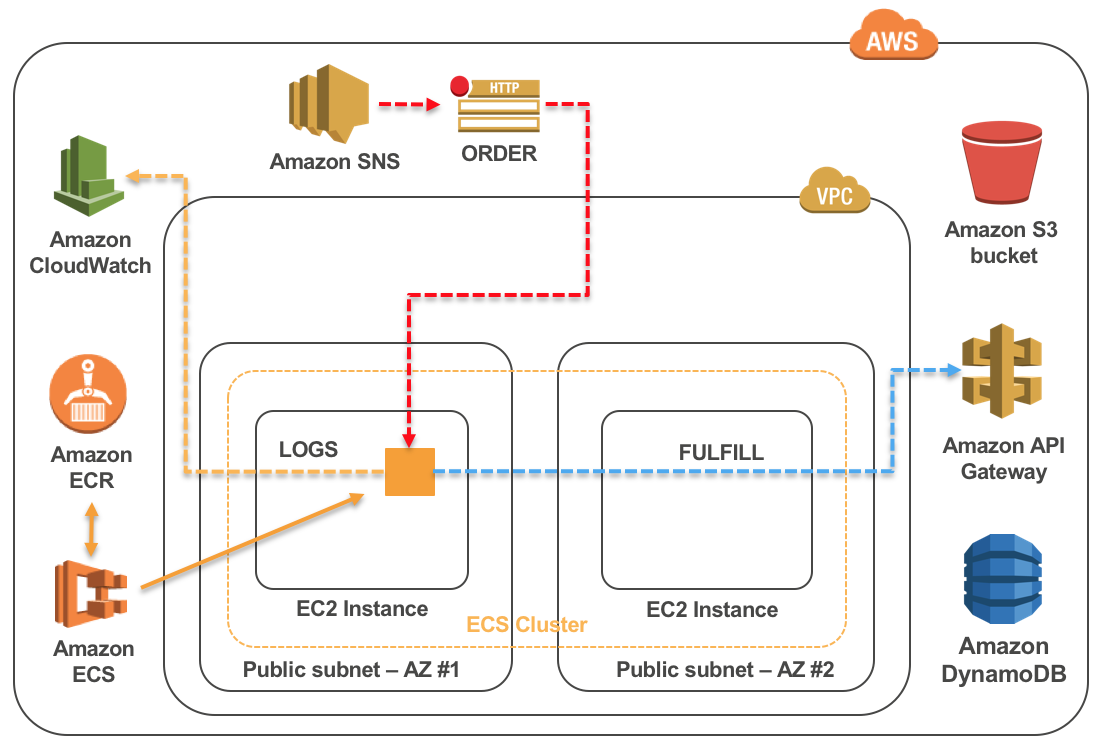
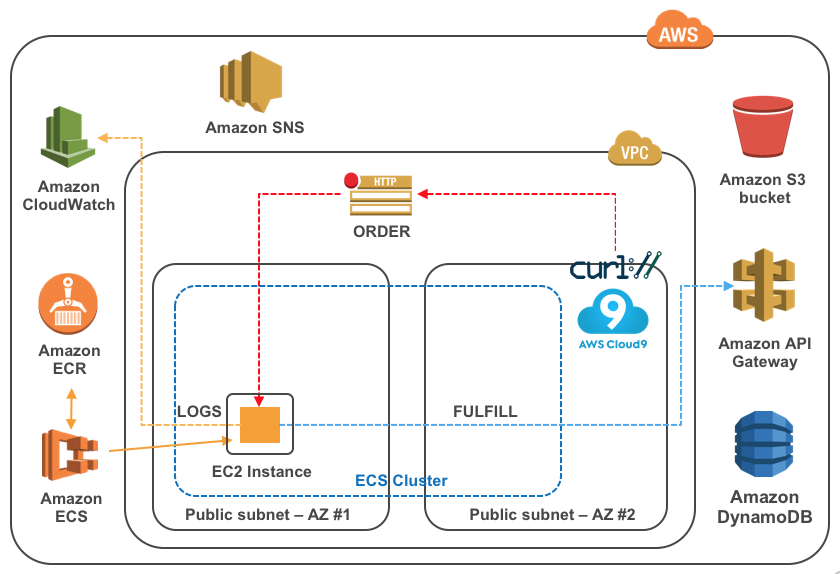
content edits for lab 2

diff --git a/workshop-microservices/readme.md b/workshop-microservices/readme.md
@@ -8,10 +8,10 @@ Interstella is an trading company specializing in inter-system exchange of rare 
 
 But our logistics platform wasn't built to handle this load and we're at risk of losing our trade routes. Our engineers have suggested we look at using modern application architectures, containers, and devops, but they don't know anything about implementing them. Can you help us update our logistics platform and become the largest trading consortium in the galaxy?
 
-### Requirements:  
+### Requirements:
 
 * AWS account - if you don't have one, it's easy and free to [create one](https://aws.amazon.com/).
-* AWS IAM account with elevated privileges allowing you to interact with CloudFormation, IAM, EC2, ECS, ECR, ELB/ALB, VPC, SNS, CloudWatch. [Learn how](https://docs.aws.amazon.com/IAM/latest/UserGuide/id_users_create.html).
+* AWS IAM account with elevated privileges allowing you to interact with CloudFormation, IAM, EC2, ECS, ECR, ELB/ALB, VPC, SNS, CloudWatch, Cloud9. [Learn how](https://docs.aws.amazon.com/IAM/latest/UserGuide/id_users_create.html).
 * A workstation or laptop with an ssh client installed, such as [putty](http://www.putty.org/) on Windows; or terminal or iterm on Mac
 * Familiarity with [Python](https://wiki.python.org/moin/BeginnersGuide/Programmers), [vim](https://www.vim.org/about.php)/[emacs](https://www.gnu.org/software/emacs/)/[nano](https://www.nano-editor.org/), [Docker](https://www.docker.com/), and [AWS](httpts://aws.amazon.com) - *not required but a bonus*.
 
@@ -57,9 +57,9 @@ You will be deploying infrastructure on AWS which will have an associated cost. 
 
 ### Workshop Setup:
 
-1\. Log into the AWS Management Console and select an [AWS region](http://docs.aws.amazon.com/AWSEC2/latest/UserGuide/using-regions-availability-zones.html).  
+1\. Log into the AWS Management Console and select **US East (N.Virginia)** for your [AWS region](http://docs.aws.amazon.com/AWSEC2/latest/UserGuide/using-regions-availability-zones.html).
 
-The region dropdown is in the upper right hand corner of the console to the left of the Support dropdown menu.  For this workshop, choose either **Ohio**, **Oregon**, or **Ireland**.
+The region dropdown is in the upper right hand corner of the console to the left of the Support dropdown menu.  For this workshop, you will use **N.Virginia**.
 
 2\. Generate a Fulfillment API Key to authorize the logistics platform to communicate with the fulfillment API.
 
@@ -90,9 +90,7 @@ Open the CloudFormation launch template link below for the region you selected i
 
 Region | Launch Template
 ------------ | -------------
-**Ohio** (us-east-2) | [![Launch Interstella CloudFormation Stack in Ohio](/images/deploy-to-aws.png)](https://console.aws.amazon.com/cloudformation/home?region=us-east-2#/stacks/new?stackName=Interstella-workshop&templateURL=https://s3-us-west-2.amazonaws.com/www.interstella.trade/templates/starthere.yaml)
-**Oregon** (us-west-2) | [![Launch Interstella CloudFormation Stack in Oregon](/images/deploy-to-aws.png)](https://console.aws.amazon.com/cloudformation/home?region=us-west-2#/stacks/new?stackName=Interstella-workshop&templateURL=https://s3-us-west-2.amazonaws.com/www.interstella.trade/templates/starthere.yaml)
-**Ireland** (eu-west-1) | [![Launch Interstella CloudFormation Stack in Ireland](/images/deploy-to-aws.png)](https://console.aws.amazon.com/cloudformation/home?region=eu-west-1#/stacks/new?stackName=Interstella-workshop&templateURL=https://s3-us-west-2.amazonaws.com/www.interstella.trade/templates/starthere.yaml)
+**N.Virginia** (us-east-1) | [![Launch Interstella CloudFormation Stack in N.Virginia](/images/deploy-to-aws.png)](https://console.aws.amazon.com/cloudformation/home?region=us-east-1#/stacks/new?stackName=Interstella-workshop&templateURL=https://s3-us-west-2.amazonaws.com/www.interstella.trade/templates/starthere.yaml)
 
 The template will automatically bring you to the CloudFormation Dashboard and start the stack creation process in the specified region. Do not change anything on the first screen. Click **Next** to continue.
 
@@ -139,10 +137,9 @@ Whoa! Turns out Interstella's infrastructure has been running directly on EC2 vi
 
 *Reminder: You'll see SNS topics, S3 bucket, API Gateway and DynamoDB in the diagram.  These are provided by Interstella HQ for communicating orders and fulfilling orders.  They're in the diagram to show you the big picture as to how orders come in to the logistics platform and how orders get fulfilled*
 
-
 * * *
 
-### Instructions
+### Instructions:
 
 1\. Access your AWS Cloud9 Development Environment.
 
@@ -525,7 +522,7 @@ c41b9462ea4b: Pushed
 latest: digest: sha256:a27cb7c6ad7a62fccc3d56dfe037581d314bd8bd0d73a9a8106d979ac54b76ca size: 3252
 </pre>
 
-*Note: Typically, you'd have to log into your ECR repo. However, you did not need to authenticate docker with ECR because the [Amazon ECR Credential Helper](https://github.com/awslabs/amazon-ecr-credential-helper) has been installed and configured for you on the Cloud9 Environment.  This was done earlier when you ran the installcredhelper.sh script. You can read more about the credentials helper in this [article](https://aws.amazon.com/blogs/compute/authenticating-amazon-ecr-repositories-for-docker-cli-with-credential-helper/)*
+*Note: Typically, you'd have to log into your ECR repo. However, you did not need to authenticate docker with ECR because the [Amazon ECR Credential Helper](https://github.com/awslabs/amazon-ecr-credential-helper) has been installed and configured for you on the Cloud9 Environment.  This was done earlier when you ran the installcredhelper.sh script. You can read more about the credentials helper in this [article](https://aws.amazon.com/blogs/compute/authenticating-amazon-ecr-repositories-for-docker-cli-with-credential-helper/).*
 
 If you refresh the ECR repository page in the console, you'll see a new image uploaded and tagged as latest.
 
@@ -545,13 +542,15 @@ Deploying individual containers is not difficult.  However, when you need to coo
 ECS refers to a JSON formatted template called a [Task Definition](http://docs.aws.amazon.com/AmazonECS/latest/developerguide/task_definitions.html) that describes one or more containers making up your application or service.  The task definition is the recipe that ECS uses to run your containers as a **task** on your EC2 instances or AWS Fargate.
 
 <details>
-<summary>What is a task?</summary>
-A task is a running set of containers on a single host. You may hear or see 'task' and 'container' used interchangeably. Often, we refer to tasks instead of containers because a task is the unit of work that ECS launches and manages on your cluster. A task can be a single container, or multiple containers that run together. *Fun fact: a task is very similar to a Kubernetes 'pod'*.
+<summary>INFO: What is a task?</summary>
+A task is a running set of containers on a single host. You may hear or see 'task' and 'container' used interchangeably. Often, we refer to tasks instead of containers because a task is the unit of work that ECS launches and manages on your cluster. A task can be a single container, or multiple containers that run together. 
+
+Fun fact: a task is very similar to a Kubernetes 'pod'.
 </details>
 
-Most task definition parameters map to options and arguments passed to the [docker run](https://docs.docker.com/engine/reference/run/) command which means you can describe configurations including which container image(s) you want to use, host:container port mappings, cpu and memory allocations, logging, and more.
+Most task definition parameters map to options and arguments passed to the [docker run](https://docs.docker.com/engine/reference/run/) command which means you can describe configurations like which container image(s) you want to use, host:container port mappings, cpu and memory allocations, logging, and more.
 
-In this lab, you will create a task definition and configure logging to serve as a foundation for deploying the containerized logistics platform stored in ECR with ECS.
+In this lab, you will create a task definition and configure logging to serve as a foundation for deploying the containerized logistics platform stored in ECR with ECS.  In this lab, you'll be using the [EC2 launch type](https://docs.aws.amazon.com/AmazonECS/latest/developerguide/launch_types.html#launch-type-ec2), so you can get a feel for how it compares to the Fargate launch type when you start breaking apart the microservices in lab 4. The CloudFormation template launched an EC2 instance that's already joined to your ECS cluster. EC2 and Fargate launch types can co-exist in the same cluster.
 
 ![Lab 2 Architecture](images/02-arch.png)
 
@@ -559,19 +558,19 @@ In this lab, you will create a task definition and configure logging to serve as
 
 * * *
 
-### Instructions
+### Instructions:
 
 1\. Create an ECS task definition that describes what is needed to run the monolith and enable logging.
 
-In the AWS Management Console, navigate to the [ECS dashboard](https://console.aws.amazon.com/ecs/).  Click on **Task Definitions** in the left menu.  Click on **Create New Task Definition**.
+In the AWS Management Console, navigate to the [ECS dashboard](https://console.aws.amazon.com/ecs/).  Click on **Task Definitions** in the left menu.  Click on **Create New Task Definition**.  Select **EC2** launch type compatibility and click **Next step**.
 
 Enter a name for your Task Definition, (e.g.: `interstella-monolith`).  Leave Task Role and Network Mode as defaults.
 
-Scroll down to Container Definitions and click **Add container**.
+Scroll down to "Container Definitions" and click **Add container**.
 
 Enter values for the following fields:
 
-* **Container name** - this is a logical identifier for your container, not the name of the container image.
+* **Container name** - this is a friendly name for your container, not the name of the container image. e.g. interstella-monolith
 * **Image** - this is a reference to the container image stored in ECR.  The format should be the same value you used to push the container to ECR - <pre><b><i>ECR_REPOSITORY_URI</i></b>:latest</pre>
 * **Memory Limits** - select **Soft limit** from the drop down, and enter `128`.
 
@@ -579,7 +578,7 @@ Enter values for the following fields:
 
 * **Port mappings** - enter `5000` for both host and container port.
 
-*Note: You might be wondering how you can more than one of the same container on a single host since there could be conflicts based on the port mappings configuration.  ECS offers a dynamic port mapping feature when using the ALB as a load balancer for your container service.  We'll visit this in the next lab when adding an ALB to the picture*
+*Note: You might be wondering how you can more than one of the same container on a single EC2 host since there could be conflicts based on the port mappings configuration.  ECS offers a dynamic port mapping feature when using the ALB as a load balancer for your container service.  We'll visit this in the next lab when adding an ALB to the picture*
 
 Here's an example of what the container definition should look like up until this point (don't click **Add** yet, there's still logging which is covered in the next step):
 
@@ -599,18 +598,18 @@ For *Log options*, enter values for the following:
 
 * **awslogs-group** - enter `[EnvironmentName]-monolith`
 
-*Note: The CloudFormation template created a [CloudWatch log group](https://docs.aws.amazon.com/AmazonCloudWatch/latest/logs/Working-with-log-groups-and-streams.html) for each service prefixed with the EnvironmentName parameter you specified when launching the stack.  For example, if your EnvironmentName was "interstella", the log group for the monolith would be "interstella-monolith".*
+*IMPORTANT: Replace `[EnvironmentName]` above with the EnvironmentName you specified when you created the CloudFormation stack.  The CloudFormation template created a [CloudWatch log group](https://docs.aws.amazon.com/AmazonCloudWatch/latest/logs/Working-with-log-groups-and-streams.html) for each service prefixed with the EnvironmentName parameter you specified when launching the stack.  For example, if your EnvironmentName was "interstella", the log group for the monolith would be "interstella-monolith".*
 
 * **awslogs-region** - enter the AWS region of the log group (i.e.: the current region you're working in); the expected value is the region code.
 <details>
 <summary>HINT: Region codes</summary>
+US East (N.Virginia) = us-east-1<br>
 US East (Ohio) = us-east-2<br>
 US West (Oregon) = us-west-2<br>
 EU (Ireland) = eu-west-1<br>
 </details>
 
-
-For example, if you ran the CloudFormation stack in Ireland, you would enter 'eu-west-1' for the awslogs-region.
+For example, if you ran the CloudFormation stack in N.Virginia, you would enter 'us-east-1' for the awslogs-region.
 
 The Log configuration should look something like this:
 
@@ -626,7 +625,13 @@ You should be at the task definition view where you can do things like create a 
 
 ![Run Task](images/02-run-task.png)
 
-Leave all the fields as their defaults and click **Run Task**.
+Configure the following fields:
+
+* **Launch Type** - select **EC2**
+* **Cluster** - select your workshop cluster from the dropdown menu, e.g. interstella
+* **Task Definition** - select the task definition you created from the dropdown menu
+
+Leave all remaining fields as their defaults and click **Run Task**.
 
 *Note: There are many options to explore in the Task Placement section of the Run Task action, and while we will not touch on every configuration in this workshop, you can read more about [Scheduling Tasks](http://docs.aws.amazon.com/AmazonECS/latest/developerguide/scheduling_tasks.html) in our documentation.*
 
@@ -638,9 +643,9 @@ In a few seconds, click on the refresh button until the task changes to a **RUNN
 
 ![Task state](images/02-task-running.png)
 
-4\. Test order processing by using cURL to send a sample order payload to the running logistics platform.
+4\. Test order processing by using cURL from your Cloud9 environment to send a sample order payload to the running logistics platform.
 
-Click on the Container Instance for your running task to load details of the EC2 instance that's running your task.  Note down the Public IP address to use with your curl command.
+First we need to determine the IP address of the EC2 instance that is hosting your task.  Click on the Container Instance for your running task to load details of the EC2 instance that's running your task.  Note down the Public IP address to use with your curl command.
 
 ![Container Instance](images/02-container-instance.png)
 
@@ -649,22 +654,15 @@ Click on the Container Instance for your running task to load details of the EC2
 <details>
 <summary>HINT: curl refresher</summary>
 <pre>
-*Mac or Linux Users*: cURL should come bundled with the OS, so open a new Terminal window to run the following curl command.
-
-*Windows Users*: SSH into the other EC2 instance launched by CloudFormation and run the following curl command.
-</pre>
-<pre>
 $ curl -H "Content-Type: application/json" -X POST -d '{"Message":{"bundle":"1"}}' http://<b><i>EC2_PUBLIC_IP_ADDRESS</b></i>:5000/order/
 </pre>
 
 *Note: The EC2_PUBLIC_IP_ADDRESS value is the public IP address of the EC2 instance running your monolith container*
-
-If you're still confused, refer back to Lab 1 Step 5 as a reminder.
 </details>
 
 Run the curl command and check the CloudWatch log group for the monolith to confirm the test order was processed.
 
-Navigate to the [CloudWatch Logs dashboard](https://console.aws.amazon.com/cloudwatch/home#logs:), and click on the monolith log group (e.g.: interstella-monolith).  Logging statements are written to log streams within the log group.  Click on the most recent log stream to view the logs.  This should look very familiar from your testing in Lab 1 Step 5.
+Navigate to the [CloudWatch Logs dashboard](https://console.aws.amazon.com/cloudwatch/home#logs:), and click on the monolith log group (e.g.: interstella-monolith).  Logging statements are written to log streams within the log group.  Click on the most recent log stream to view the logs.  The output should look very familiar from your testing in Lab 1 Step 6.
 
 ![CloudWatch Log Entries](images/02-cloudwatch-logs.png)
 
@@ -681,7 +679,7 @@ Nice work!  You've created a task definition and are able to deploy the monolith
 
 ## Lab 3 - Scale the logistics platform with an ALB:
 
-The Run Task method you used in the last lab is good for testing, but we need to keep run the logistics platform as a long running process.  In addition, it would be helpful to maintain capacity in case any of our EC2 instances were to have an issue (always design and plan for failure).
+The Run Task method you used in the last lab is good for testing, but we need to run the logistics platform as a long running process.  In addition, it would be helpful to maintain capacity in case any of our EC2 instances were to have an issue (always design and plan for failure).
 
 In this lab, you will implement an Elastic Load Balancing [Appliction Load Balancer (ALB)](https://aws.amazon.com/elasticloadbalancing/) to front-end and distribute incoming orders to your running containers.  The integration between ECS and ALB offers a feature called dynamic port mapping for containers, which allows you to run multiple copies of the same container with the same listening port on the same host...*say that 10 times fast*.  The current task definition maps host port 5000 to container port 5000.  This means you would only be able to run one instance of that task on a specific host.  If the host port configuration in the task definition is set to 0, an ephemeral listening port is automatically assigned to the host and mapped to the container which still listens on 5000.  If you then tried to run two of those tasks, there wouldn't be a port conflict on the host because each task runs on it's own ephemeral port.  These hosts are grouped in a target group for the ALB to route traffic to.
 
@@ -691,7 +689,7 @@ What ties this all together is an **ECS Service**, which maintains a desired tas
 
 * * *
 
-### Instructions
+### Instructions:
 
 1\. Create an Application Load Balancer.
 
@@ -849,7 +847,7 @@ Here's what you will be implementing:
 
 * * *
 
-### Instructions
+### Instructions:
 
 1\. First, build the Iridium service container image and push it to ECR.
 
